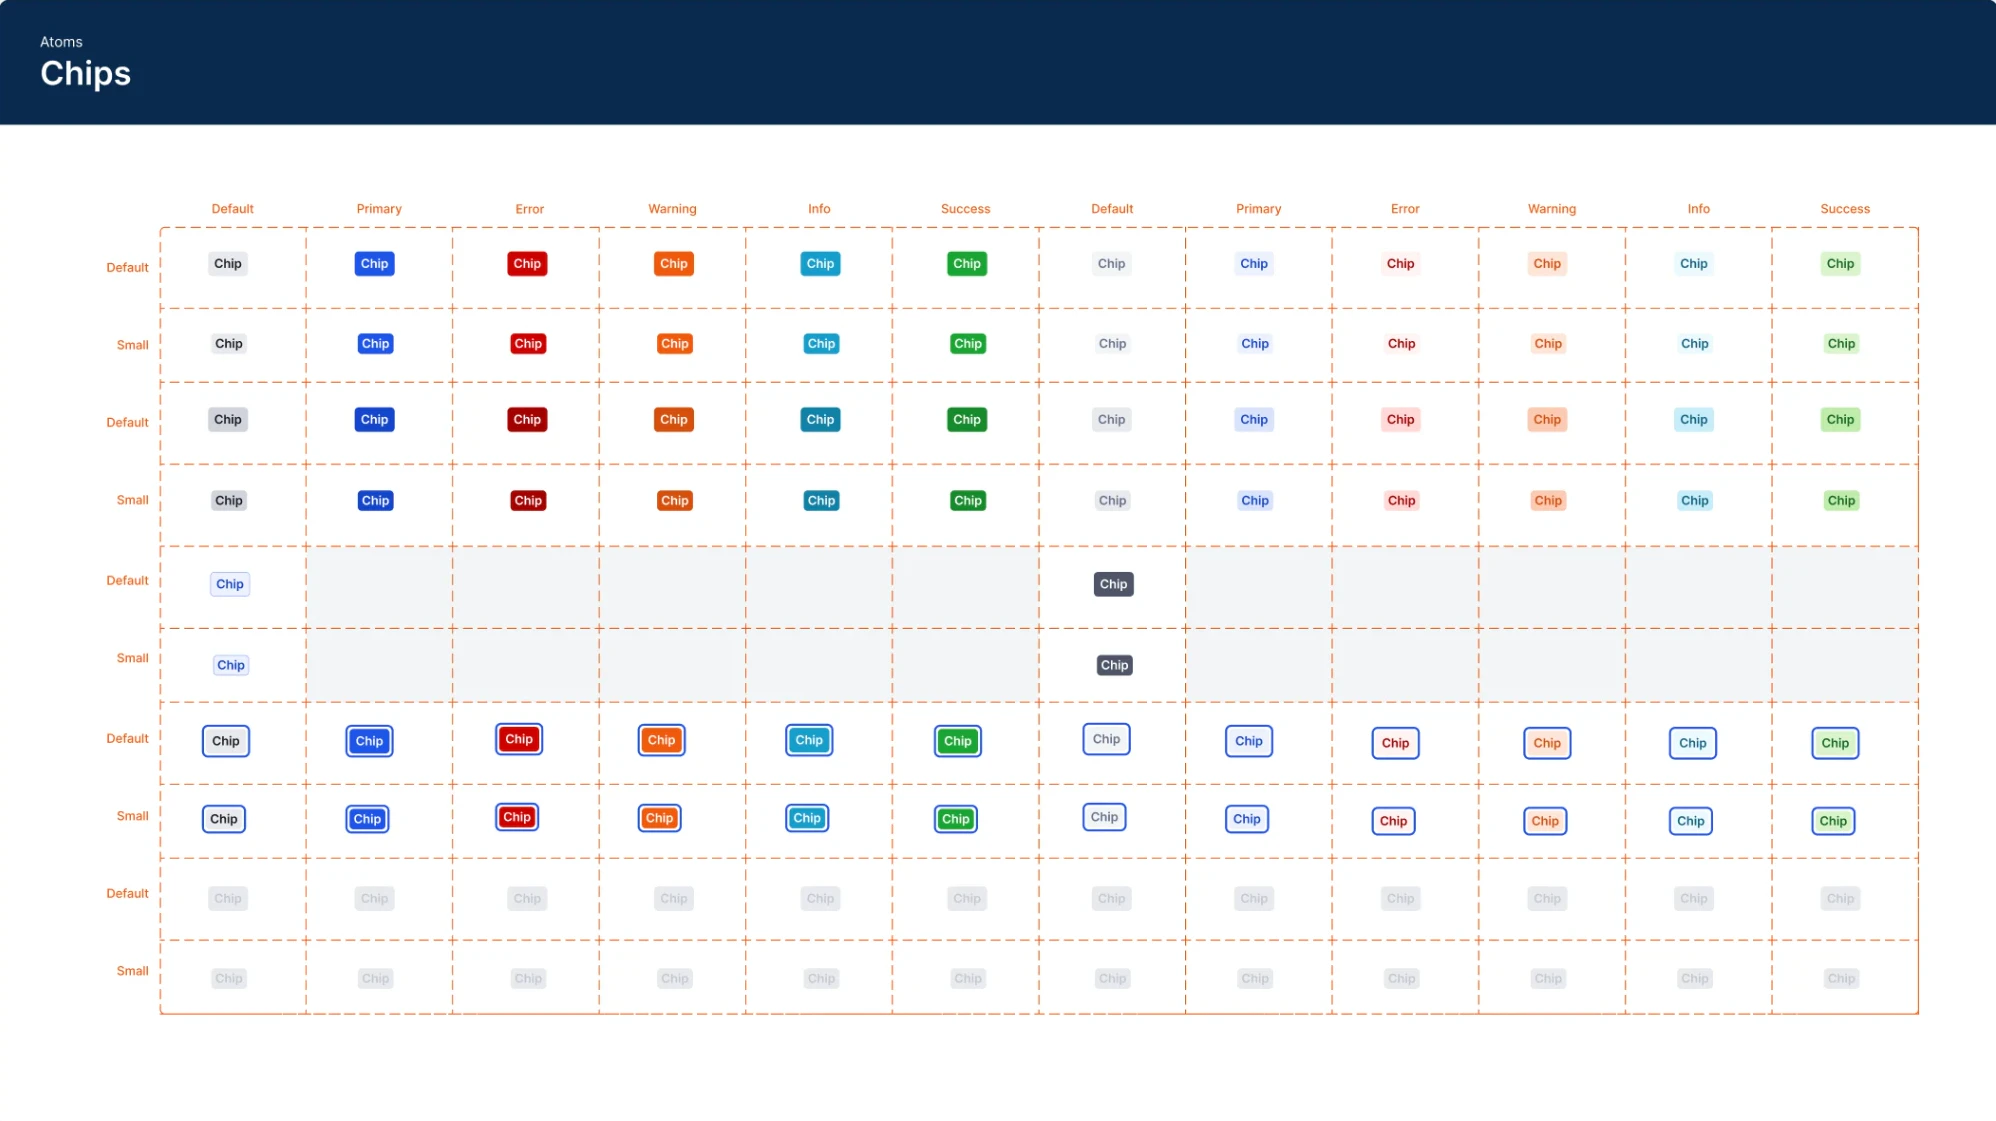
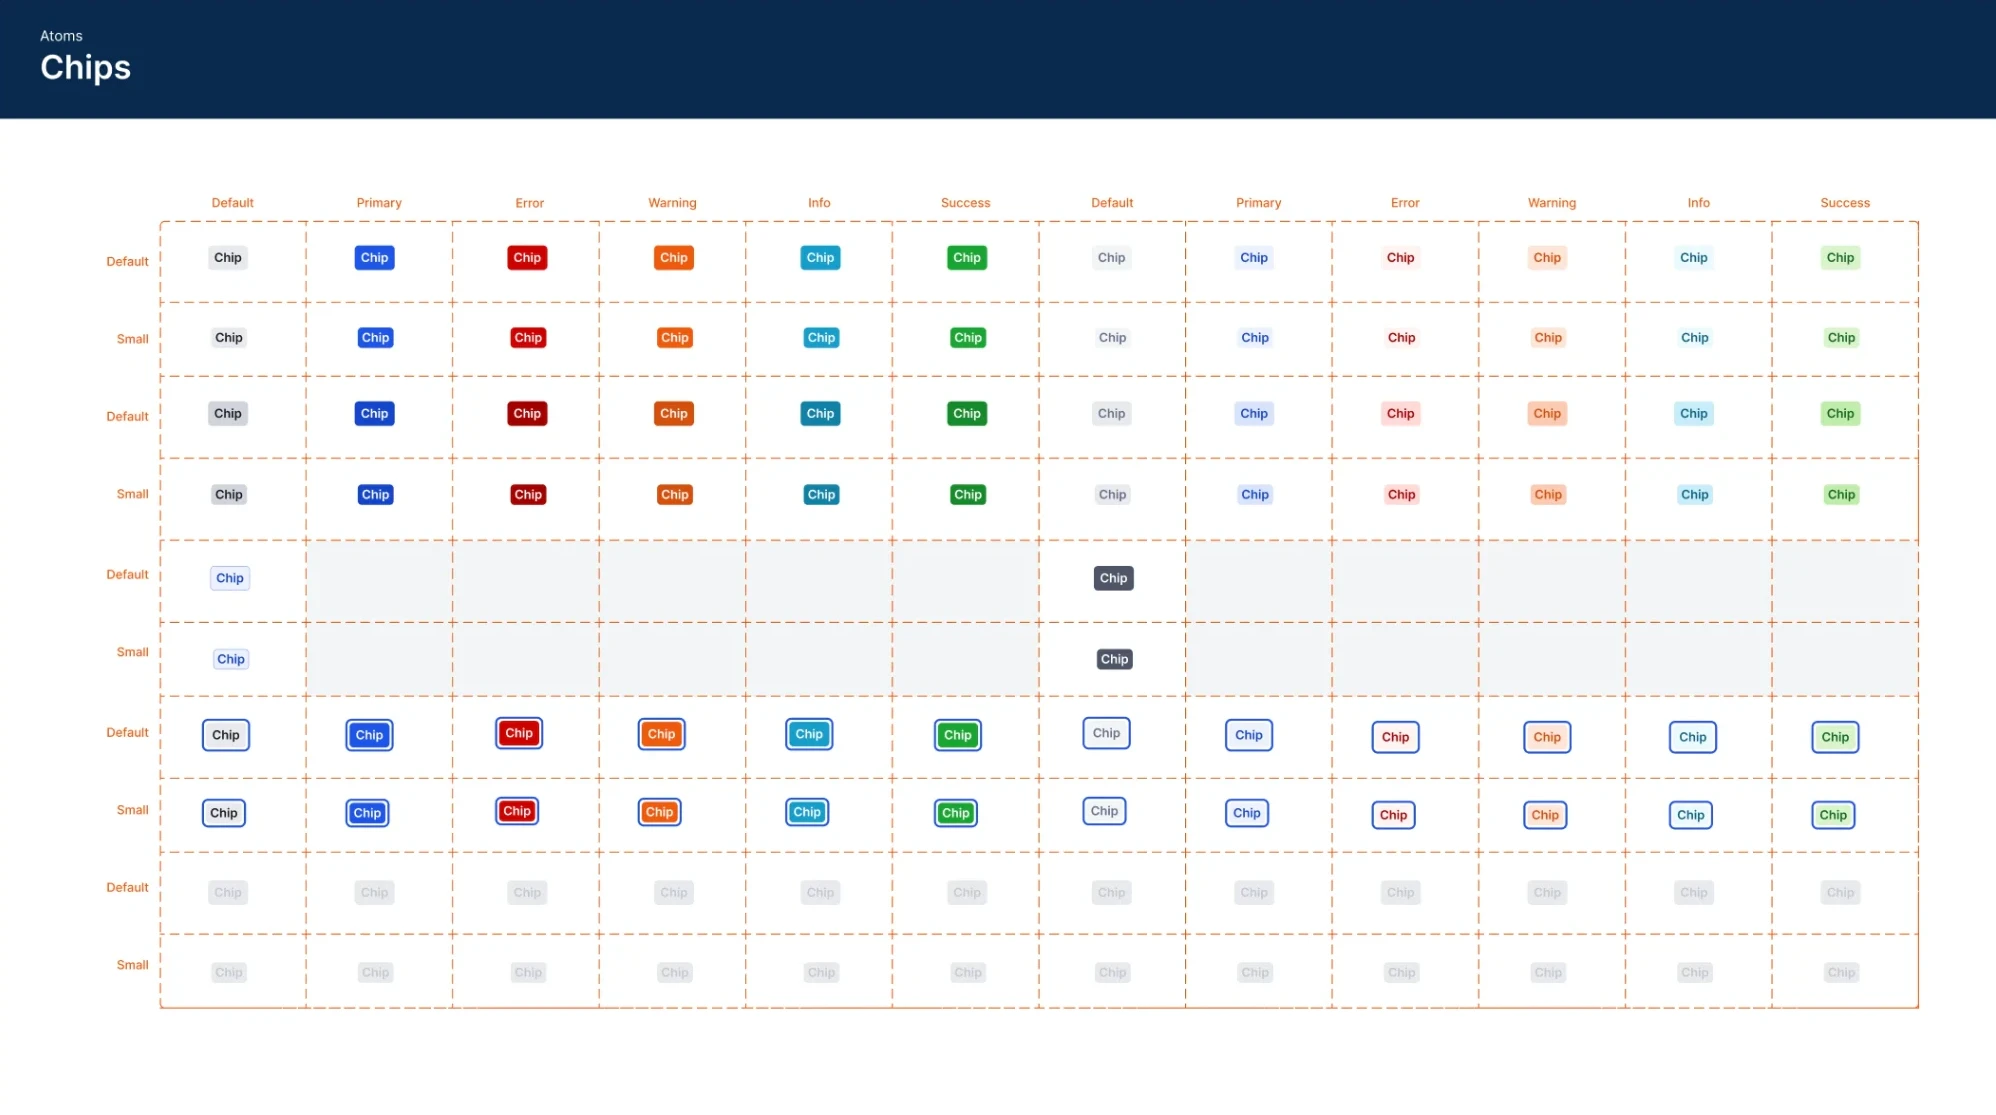
updates

diff --git a/about.html b/about.html
@@ -53,44 +53,30 @@
     <main id="main">
       <section class="wrap case-hero">
         <p class="eyebrow" data-no-read-time>About</p>
-        <h1>I design and build for how people actually behave.</h1>
+         <h1>I design and build for how people actually behave.</h1>
         <p class="lead">
-          I'm a UX Engineer in Vancouver with 7 years of building software, currently at GeoComply. I start
-          with user research to find out how people actually work, shape what the product should become,
-          and build it in React and TypeScript, down to the design system it runs on.
+          I'm a UX engineer in Vancouver with 7 years of building software, trained in psychology before
+          computer science. At GeoComply I work on fraud-investigation tools: I find out how analysts
+          actually work, shape what the product should become, and build it.
         </p>
       </section>
 
-      <section class="wrap section" style="border-top:0; padding-top:0">
+       <section class="wrap section" style="border-top:0; padding-top:0">
         <div class="about-grid">
           <div class="prose">
-            <h2 style="margin-top:0">The short version</h2>
-            <p>I studied psychology first, then computer science. Before I wrote any production code I'd spent years on attention, memory, decision-making and how people behave when a system surprises them. So when I learned to build software, I already knew who I was building it for.</p>
-            <p>I've been a front-end and full-stack developer, a technical lead, and now a UX engineer. In every role I've worked on both the design and the code. I like understanding the problem, building the fix, then making a tool so the next one is easier.</p>
-
-            <h2>What the psychology background actually changes</h2>
+            <h2 style="margin-top:0">How I work</h2>
             <ul>
-              <li><strong>I start with behaviour data.</strong> Session replays, support-channel history, shadowing. I want to know what people do before I ask them what they want.</li>
-              <li><strong>I design for what goes wrong.</strong> A dead-end error becomes a support ticket, and an unclear state sends people in circles. The <a href="work/onecomply.html">licence application redesign</a> was mostly about making the next step visible.</li>
-              <li><strong>I keep cognitive load in the budget.</strong> Fewer navigation choices, one organising element per page, empty states that are never confused with loading states.</li>
-              <li><strong>I treat AI as a user too.</strong> An LLM reading a JSON file has the same problem as a new teammate: ambiguity costs it. Getting the input right has mattered more than anything else I've done with AI.</li>
+              <li><strong>Research decides what gets built.</strong> I start with what people do, not what they say: session replays, support tickets, shadowing, analyst interviews. That's how a four-tool investigation workflow became one user page, and how a ranked audit of 21 map failures set engineering's fix order.</li>
+              <li><strong>Then I build it.</strong> I prototype the real thing instead of handing off a spec, and I ship it in React and TypeScript.</li>
+              <li><strong>Then I make the next one faster.</strong> I took our <a href="work/design-system.html">design system</a> from Figma-only to a React library used by four products, with Figma plugins and an agent pipeline that cut design-to-code from days to about ten minutes.</li>
             </ul>
 
-            <h2>Human factors, formally</h2>
-            <p>Most of the psychology I use comes from human factors: Rasmussen's skills-rules-knowledge model of where operators fail, ecological interface design (make constraints obvious so attention goes to the real problem), signal detection theory (why a false "no results" is worse than a slow one) and universal design. Each case study here applies one such principle to a real decision.</p>
+            <h2>AI, in the product and in the workflow</h2>
+            <p>I designed and built an investigation assistant (React, Cloudflare Workers, Claude API) that turns an analyst's question into filters. Analysts answer for every decision they make, so the assistant shows its work as filters they can see and edit, not an answer they have to trust. It's now a major prospect's reference demo, and two of its patterns are on the product roadmap.</p>
+            <p>Day to day I build with Claude Code and Cursor, with Figma and MUI connected so the agent reads the real design and docs instead of guessing. What to build, anything that touches customer data, and whether it's right stay with me. Every mistake an agent makes becomes a rule or a test.</p>
 
-            <h2>How I use AI</h2>
-            <p>AI does a lot of my building now. Most of my job is deciding what to ask it for, and checking what comes back.</p>
-            <ul>
-              <li><strong>What I've shipped with it:</strong> <a href="work/loafmode.html">LoafMode</a>, live on the App Store, art included. An AI investigation assistant (React, Cloudflare Workers, Claude API) that turns analysts' questions into editable filters. Four Figma plugins and an AI-agent pipeline that cut design-to-code from days to about 10 minutes. And a <a href="work/design-system.html">component library rebuild</a>, after the first AI-generated version looked right and didn't work, now used by 4 products.</li>
-              <li><strong>Tools:</strong> Claude Code for my own projects, and Cursor with a shared rules file for the team's library. Figma MCP so the agent sees the real frame, MUI MCP so it reads the docs instead of guessing. Figma Make and Claude Design for prototypes, Claude Projects for research notes.</li>
-              <li><strong>What stays mine:</strong> deciding what to build, anything that touches credentials or customer data, and the call on whether a screen actually matches the design.</li>
-              <li><strong>How I check its work:</strong> tests that assert exact values, visual diffs against Figma with a threshold, and a running list of every mistake the agent made, each turned into a rule or a test so it doesn't happen twice.</li>
-            </ul>
-            <p>Models I've shipped with, from git: Sonnet 4.5, Opus 4.6, 4.7 and 4.8, Opus 5, Fable 5.</p>
-
-            <h2>What I'm working on now</h2>
-            <p>A Figma-to-code pipeline an AI agent can run without someone translating in between, and turning scattered investigation tools into one experience with room for AI features.</p>
+            <h2>Why the psychology matters</h2>
+            <p>It's why I look at behaviour before opinions, and it gives me names for what goes wrong: cognitive load, automation bias, a false "no results" that's worse than a slow one. Most of my design decisions come down to making the next step obvious and the system's state impossible to misread.</p>
           </div>
 
           <aside>

diff --git a/css/style.css b/css/style.css
@@ -4891,6 +4891,12 @@ html .case-intro h1 { font-size: clamp(1.75rem, 3vw, 2.4rem); max-width: 24ch; }
   :root:not([data-theme="light"]) .pcard .pcard-media { background: #1D1E23; }
 }
 
+/*Dark under the title bar so the rounded corners don't show a white fringe. */
+.pcard-stack .win-back { background: linear-gradient(2C2C2C_1 0 26px, #fff 26px); }
+.win-bar-dark { background: 2C2C2C_1; border-bottom-color: rgba(255, 255, 255, 0.06); }
+.win-bar-dark i { background: rgba(255, 255, 255, 0.22); }
+.win-bar-dark b { color: rgba(255, 255, 255, 0.75); }
+
 /* The Figma screenshot has a few light pixels in its top-left corner; nudge it
    past the window edge so they're hidden. */
-.pcard-stack .win-back img { margin: -3px 0 0 -3px; width: calc(100% + 3px); }
+.pcard-stack .win-back img { margin: 0px 0 0 0px; width: calc(100% + 3px); }

diff --git a/js/main.js b/js/main.js
@@ -259,6 +259,13 @@
     });
   }
 
+  /* ---- Section links: jump, then drop the #hash so a refresh starts where you are, not at the section ---- */
+  function clearHash() {
+    if (location.hash) history.replaceState(null, "", location.pathname + location.search);
+  }
+  window.addEventListener("hashchange", clearHash);
+  window.addEventListener("load", clearHash);
+
   document.addEventListener("DOMContentLoaded", function () {
     bindToggle();
     markNav();
